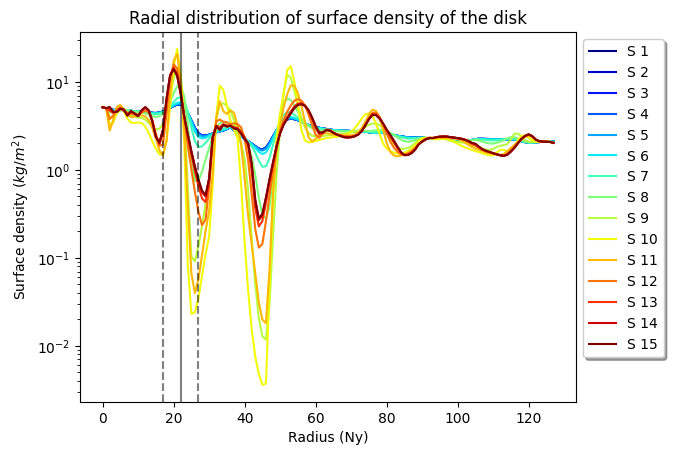
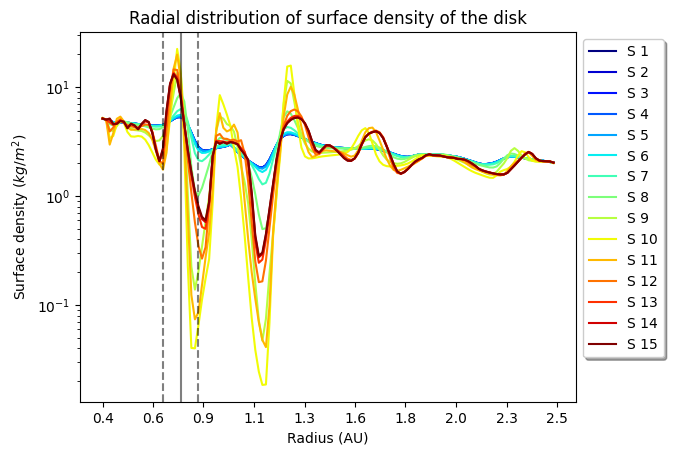
added comments in hist and find_ring, added physical radius in xaxis

diff --git a/find_ring.py b/find_ring.py
@@ -94,7 +94,7 @@ def load_gas_outputs(r, phi, path, n_out):
 
 
 
-def get_dust_trap(sigm, pic_path, n_species, p_bumps=1):
+def get_dust_trap(sigm, pic_path, n_species, r_in, r_out, Ny, p_bumps=1):
 	"""
 	This function plots the average surface density radially for each dust species. The points of maxima are considered as the dust trapped regions. These points is returned. The number of dust traps are determined by the manually input number p_bumps.
 	
@@ -103,6 +103,9 @@ def get_dust_trap(sigm, pic_path, n_species, p_bumps=1):
 	sigm:		3-D list of the 2 dimensional surface densities of the various species
 	pic_path:	output directory of the radial plot of average surface density
 	n_species:	the total number of dust species called for no reason but to create the satisfying colour coordinated plots 
+	r_in: 		inner simulation radius (float)
+	r_out: 		outer simulation radius (float)
+	Ny: 		number of radial zones (int)
 	p_bumps:	number of dust trapped regions to be considered (integer). Default is 1.
 
 	Returns the radial indices of the dust trapped regions.
@@ -143,8 +146,13 @@ def get_dust_trap(sigm, pic_path, n_species, p_bumps=1):
 		plt.axvline(dt[i]-5, linestyle='--', color='black', alpha=0.5)
 		plt.axvline(dt[i]+5, linestyle='--', color='black', alpha=0.5)
 
+	# Changing the x-axis tick labels from Ny to radius as it is more physical 
+	positions = np.around(np.linspace(0, Ny, 10), decimals = 1)
+	labels = np.around(np.linspace(r_in, r_out, 10), decimals = 1)
+	plt.xticks(positions, labels)
+
 	plt.title("Radial distribution of surface density of the disk")
-	plt.xlabel("Radius (Ny)")
+	plt.xlabel("Radius (AU)")
 	plt.ylabel("Surface density ($kg/m^2$)")
 	plt.legend(bbox_to_anchor=(1, 1), fancybox=True, shadow=True)
 	plt.savefig(pic_path+"surf_dens.png", bbox_inches='tight')
@@ -169,11 +177,9 @@ def cell_volume(r, phi, dt):
 	"""
 
 	r_m, phi_m = np.meshgrid(r, phi)		# Their shape is (385, 129)
-
 	vol = np.pi*(r_m[:, dt+1]**2 - r_m[:, dt]**2)
 
 	# vol is an array of areas around the ring. Each element in the array corresponds to the area in each of the 385 azimuthal cells Since the volume here is azimuthally symmetric, I consider the volume of every cell to be the same and therefore take the first cell.
-
 	return vol[0]
 
 
@@ -242,7 +248,7 @@ def vdiff_wavg(ring_vs, ring_sigma, cell_vol, thick=True):
 	ring_vs:	velocities of the dust species in the dust trapped region (3-D list for thick ring, 2-D list for thin ring)
 	ring_sigma:	surface densities of the dust species in the dust ring (3-D list for thick ring, 2-D list for thin ring)
 	cell_vol:	cell volume at the dust trapped region (float number)
-	thick:		toggles thick or thin ring (Boolean). A thick ring considers 5 radial indices on either side in the region 					surrounding the pressure maxima. A thin ring (thick=False) considers only the radial index of pressure maxima. 				By default, thick=True. NEEDS TO BE THE SAME AS VALUE FOR get_ring_param.
+	thick:		toggles thick or thin ring (Boolean). A thick ring considers 5 radial indices on either side in the region 					surrounding the pressure maxima. A thin ring (thick=False) considers only the radial index of pressure maxima. By default, thick=True. NEEDS TO BE THE SAME AS VALUE FOR get_ring_param.
 
 	Returns v_wavg, a 1-D list of velocity differences for the various sets of dust species e.g (1,2), (1,3), (8, 10) etc
 	"""		
@@ -250,18 +256,14 @@ def vdiff_wavg(ring_vs, ring_sigma, cell_vol, thick=True):
 	v_wavg = []
 
 	for i in range(len(ring_vs)):
-
 		for j in range(i+1, len(ring_vs)):
-
 			if thick:
 
 				int_upper = (abs(ring_vs[i] - ring_vs[j]) * ring_sigma[i][:, :-1] * ring_sigma[j][:, :-1] * cell_vol).sum()
 				int_lower = (ring_sigma[i][:, :-1] * ring_sigma[j][:, :-1] * cell_vol).sum()
 
 				wavg = int_upper/int_lower
-			
 				print(f"V{i+1}_{j+1} = {round(wavg, 3)} m/s")
-
 				v_wavg.append(wavg)
 
 			else:
@@ -270,30 +272,43 @@ def vdiff_wavg(ring_vs, ring_sigma, cell_vol, thick=True):
 				int_lower = (ring_sigma[i][:-1] * ring_sigma[j][:-1] * cell_vol).sum()
 
 				wavg = int_upper/int_lower
-				
 				print(f"V{i+1}_{j+1} = {round(wavg, 3)} m/s")
-
 				v_wavg.append(wavg)
 
 	return v_wavg
 
 
 def vdiff_gas(ring_vs, ring_sigma, ring_gasv, ring_gassig, cell_vol, n_species, dt, path, thick=True):
+	"""
+	This function calculates the relative velocities between the various dust species and the gas in the dust traps.
+
+	Parameters:
+
+	ring_vs:		velocities of the dust species in the dust trapped region (3-D list for thick ring, 2-D list for thin ring)
+	ring_sigma:		surface densities of the dust species in the dust ring (3-D list for thick ring, 2-D list for thin ring)
+	ring_gasv:		velocity of the gas in the dust trapped region (1-D list)
+	ring_gassig:	surface density of the gas in the dust trap (1-D list)
+	cell_vol: 		simulation cell volume (float)
+	n_species: 		total number of dust species (int)
+	dt: 			locations of the dust traps (1-D list)
+	path: 			path where the plot is to be saved 
+	thick: 			toggles thick of thin ring (Boolean). By default, thick=True.
+
+	Returns the velocity differences between the gas and the various dust species and plots these values
+	"""
 
 	gasdiff = []
 	print("\n \n")
 
+	# Calculating the velocity differences
 	for i in range(len(ring_vs)):
-
 		if thick:
 
 			int_upper = (abs(ring_vs[i] - ring_gasv) * ring_sigma[i][:, :-1] * ring_gassig[0][:, :-1] * cell_vol).sum()
 			int_lower = (ring_sigma[i][:, :-1] * ring_gassig[0][:, :-1] * cell_vol).sum()
 
 			wavg = int_upper/int_lower
-
 			print(f"V{i+1}_gas = {round(wavg, 3)} m/s")
-
 			gasdiff.append(wavg)
 
 		else:
@@ -302,31 +317,27 @@ def vdiff_gas(ring_vs, ring_sigma, ring_gasv, ring_gassig, cell_vol, n_species, 
 			int_lower = (ring_sigma[i][:-1] * ring_gassig[:][:-1] * cell_vol).sum()
 
 			wavg = int_upper/int_lower
-
 			print(f"V{i+1}_gas = {round(wavg, 3)} m/s")
-
 			gasdiff.append(wavg)
 
-	# Plotting the velocity differences
+	# Defining the labels for the x-axis of the plot as [dust_species_number, gas]
 	labels = []
-
 	for i in range(n_species):
-
 		labels.append([i+1, "gas"])
 
-	# plt.figure(figsize=(15, 6))
-
+	# Adding the labels to the plot
 	x = range(len(gasdiff))
 	plt.xticks(x, labels, rotation=60)
+
+	# Plotting the velocity differences
 	plt.plot(x, gasdiff, marker='o', label=f"Dust trap at {dt}")
 	plt.title(f"Velocity differences between gas and the dust species")
 	plt.xlabel("Species")
 	plt.ylabel("Velocity (m/s)")
-	# plt.grid()
 	plt.legend()
 	plt.tight_layout()
 	plt.savefig(path+f"veldiff_gas_{dt}.png")
-	# plt.show()
+	plt.show()
 
 	return gasdiff 
 
@@ -347,21 +358,26 @@ def plot_vdiff(vdiff, n_species, dts, path):
 
 	labels = []
 
+	# Creating the labels for the x-axis of the plot, depicting between which two species the relative velocity corresponds to
 	for i in range(n_species):
-
 		for j in range(i+1, n_species):
 
 			labels.append(f"{i+1}-{j+1}")
 
+	# Defining the figure
 	plt.figure(figsize=(25, 10))
 
+	# Adding the labels to the plot
 	x = range(len(vdiff[0]))
 	plt.xticks(x, labels, rotation=60)
+
+	# Plotting the relative velocities for each dust trap
 	for i in range(len(vdiff)):
 		plt.plot(x, vdiff[i], marker='o', label=f"Dust trap at {dts[i]}")
 		plt.title(f"Velocity differences for {n_species} species")
 		plt.xlabel("Species")
 		plt.ylabel("Velocity (m/s)")
+
 	plt.grid()
 	plt.legend()
 	plt.xticks(fontsize=6)
@@ -370,40 +386,45 @@ def plot_vdiff(vdiff, n_species, dts, path):
 	plt.show()
 
 
+def main():
 
-#------------------------------------------------------------------------------------------------------------------------
-#------------------------------------------------------------------------------------------------------------------------		
-
-if __name__ == "__main__":
-
-	path = "../fargo3d/outputs/fargo_multifluid/"
-	pic_path = "temp_pics/"
-	output_number = 7
-	species_number = 15
-	p_bumps = 1
+	path = "../fargo3d/outputs/fargo_multifluid/" 		# Path of simulation output files
+	pic_path = "temp_pics/" 							# Path where the plots are to be saved
+	output_number = 7 									# Number to be considered for the simulation output files
+	species_number = 15 								# Total number of dust species					
+	p_bumps = 1 										# Number of dust traps to be considered
+	rin = 0.4 											# Inner simulation radius
+	rout = 2.5 											# Outer simulation radius
+	Ny = 128 											# Number of radial zones 
+	
+	# List where the relative velocities of all the species is saved for plotting
 	vdiffs = []
 
 	r, phi, sigma, vel, energy = load_dust_outputs(path, species_number, output_number)
 	gas_sig, gas_vel, gas_energy = load_gas_outputs(r, phi, path, output_number)
 
-	dt = get_dust_trap(sigma, pic_path, species_number, p_bumps=p_bumps)
+	# Getting the list of dust traps
+	dt = get_dust_trap(sigma, pic_path, species_number, rin, rout, Ny, p_bumps=p_bumps)
+
+	# Clear the radial surface density plot
 	plt.clf()
 
 	# Obtaining velocity differences at each dust trapped region
-
 	for i in range(len(dt)):
 
 		volume = cell_volume(r, phi, dt[i])
-
 		v_ring, sigma_ring, vgas_ring, sigmagas_ring = get_ring_param(sigma, vel, gas_sig, gas_vel, dt[i])
-
 		vdiffs.append(vdiff_wavg(v_ring, sigma_ring, volume))
 		gasdiffs = vdiff_gas(v_ring, sigma_ring, vgas_ring, sigmagas_ring, volume, species_number, dt[i], pic_path)
 
 		print(f"Average velocity difference for dust trapped region at {dt[i]} : {np.average(vdiffs)}")
 		print(f"Average velocity difference between gas and dust at {dt[i]} : {np.average(gasdiffs)}")
 
-	plot_vdiff(vdiffs, species_number, dt, pic_path)
+	plot_vdiff(vdiffs, species_number, dt, pic_path)	
+
+if __name__ == "__main__":
+
+	main()
 
 	
 

diff --git a/hist.py b/hist.py
@@ -99,7 +99,7 @@ def main():
 	# Determining location of dust traps
 	dt = get_dust_trap(sigma, pic_path, species_number, p_bumps=p_bumps)
 
-	# Clear the surface density plot for the histogram and velocity contours
+	# Clear the radial surface density plot
 	plt.clf()
 
 	# Obtaining velocity differences at each dust ring
